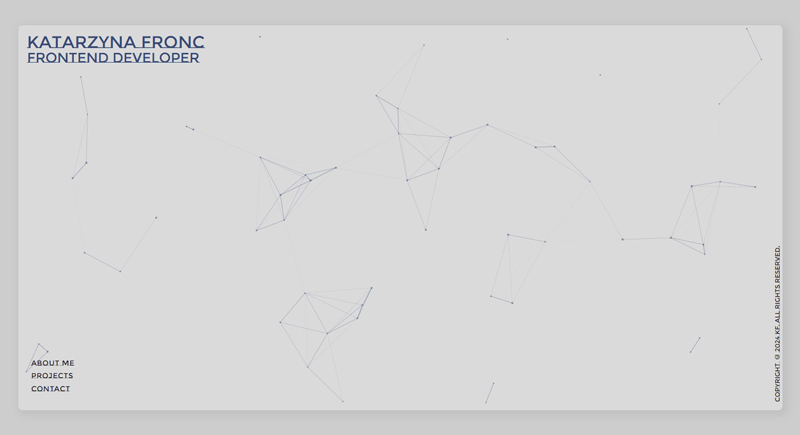
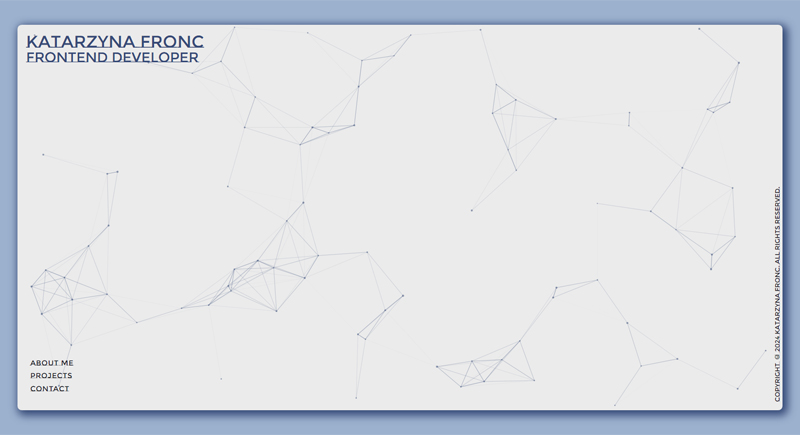
change colors

diff --git a/src/assets/sass/style.css b/src/assets/sass/style.css
@@ -11,7 +11,7 @@ body {
   width: 100%;
   min-height: 100%;
   color: #16161d;
-  background-color: #cdcdcd;
+  background-color: #9cb1ce;
   overflow: auto;
 }
 
@@ -112,14 +112,14 @@ br {
 .menu-button {
   color: #16161d;
   border: none;
-  background-color: #dadada;
+  background-color: #ebebeb;
   text-align: left;
   cursor: pointer;
 }
 
 .MuiMenu-list {
   color: #16161d;
-  background-color: #dadada;
+  background-color: #ebebeb;
   font-size: 0.5rem;
 }
 
@@ -160,8 +160,8 @@ br {
   grid-row: 1/3;
   margin-bottom: 1rem;
   border-radius: 0.5rem;
-  background-color: #c0c0c0;
-  box-shadow: 5px 5px 15px 5px #c0c0c0;
+  background-color: #374b78;
+  box-shadow: 5px 5px 15px 5px #374b78;
 }
 .project-link-container {
   grid-column: 2/3;
@@ -174,7 +174,7 @@ br {
   font-family: "Montserrat", sans-serif;
   font-size: 0.75rem;
   padding: 1rem 0;
-  line-height: 1.25em;
+  line-height: 1.2em;
   grid-column: 1/2;
   grid-row: 2/4;
   padding-right: 1rem;
@@ -295,7 +295,7 @@ br {
   font-family: "Montserrat", sans-serif;
   font-size: 0.75rem;
   padding: 1rem 0;
-  line-height: 1.25em;
+  line-height: 1.2em;
 }
 @media (min-width: 781px) {
   .about-description-content {
@@ -320,7 +320,7 @@ br {
   display: flex;
   align-items: center;
   justify-content: center;
-  background-color: #dadada;
+  background-color: #ebebeb;
   border: none;
   height: 3rem;
   width: 3rem;
@@ -365,11 +365,11 @@ br {
   display: grid;
   grid-template-columns: 90% 10%;
   grid-template-rows: 4rem auto 6rem;
-  background-color: #dadada;
+  background-color: #ebebeb;
   margin: 2rem;
   padding: 1rem 0.2rem 1rem 1rem;
   min-height: calc(100vh - 4rem);
-  box-shadow: 5px 5px 15px 5px #c0c0c0;
+  box-shadow: 5px 5px 15px 5px #374b78;
   align-items: center;
   border-radius: 0.5rem;
   z-index: -1;

diff --git a/src/assets/sass/utilities/_variables.scss b/src/assets/sass/utilities/_variables.scss
@@ -13,9 +13,9 @@ $breakpoints: (
   ),
 );
 
-$primary-color: #dadada;
-$secondary-color: #cdcdcd;
-$tetriary-color: #c0c0c0;
+$primary-color: #ebebeb;
+$secondary-color: #9cb1ce;
+$tetriary-color: #374b78;
 $color-light: #fff;
 $color-dark: #16161d;
 $color-header-dark: #374b78;

diff --git a/src/components/ParticlesBg.component.tsx b/src/components/ParticlesBg.component.tsx
@@ -67,7 +67,7 @@ export const ParticlesBg = () => {
           density: {
             enable: true,
           },
-          value: 180,
+          value: 200,
         },
         opacity: {
           value: 0.5,

diff --git a/src/assets/sass/utilities/_mixins.scss b/src/assets/sass/utilities/_mixins.scss
@@ -33,7 +33,7 @@
   font-family: $primary-font;
   font-size: 0.75rem;
   padding: 1rem 0;
-  line-height: 1.25em;
+  line-height: 1.2em;
   @include respond-to("large") {
     font-size: 0.875rem;
   }
